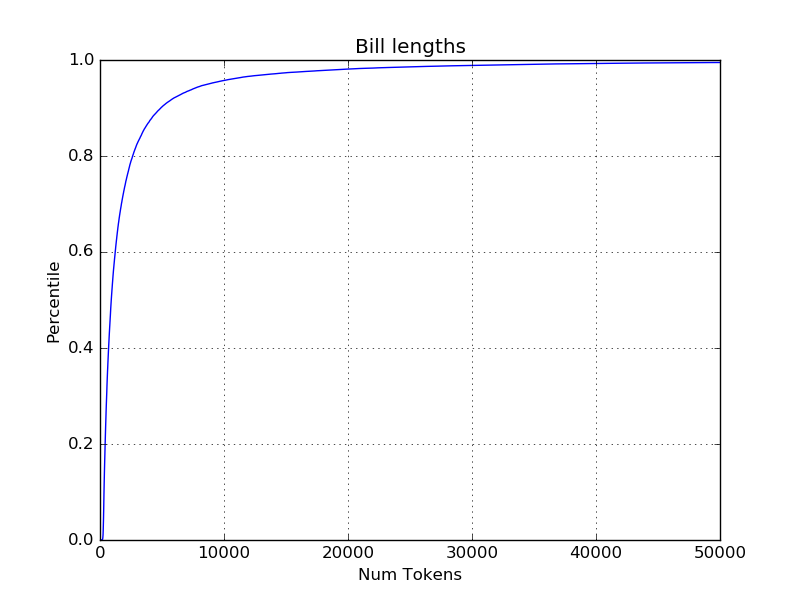
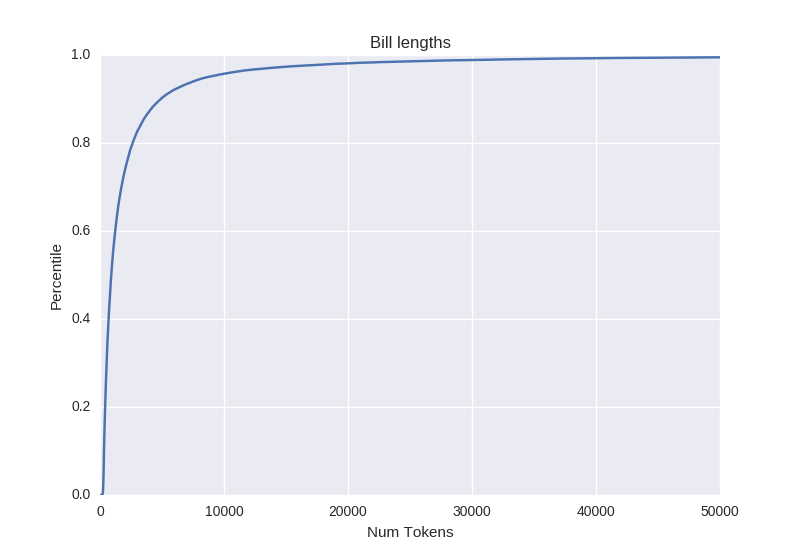
use seaborn style plots

Changed region(s): [[0.0625, 0.0618, 0.9375, 0.9891], [0.0625, 0.2164, 0.1875, 0.3091], [0.1875, 0.1545, 0.2188, 0.1855]]

diff --git a/analysis/quick_stats.py b/analysis/quick_stats.py
@@ -5,6 +5,8 @@ import numpy as np
 import matplotlib
 matplotlib.use('Agg')
 import matplotlib.pyplot as plt
+import seaborn as sns
+sns.set(color_codes=True)
 
 def parse_args():
     parser = argparse.ArgumentParser()
